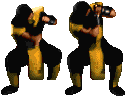
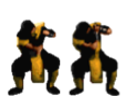
Added blocking down and being hit down for both characters

diff --git a/view/GameView.cpp b/view/GameView.cpp
@@ -87,6 +87,7 @@ GameView::~GameView() {
     delete  raidenDizzy;
     delete  raidenFall;
     delete  raidenBeingHit;
+    delete  scorpionBeingHitDown;
     delete  raidenBlockDown;
     delete  raidenBlock;
     delete  raidenHead;
@@ -157,8 +158,9 @@ void GameView::LoadSprites(string name1, string name2) {
     scorpionDizzy = new CharacterSprite(this->renderer, scorpion->getFileMovement(MOVE_NAME_DIZZY), scorpion->getX(), scorpion->getY(), scorpion->getWidth(), scorpion->getHeight(), 7, oponentSide, false, false, NULL);
     scorpionFall = new CharacterSprite(this->renderer, scorpion->getFileMovement(MOVE_NAME_FALL), scorpion->getX(), scorpion->getY(), scorpion->getWidth(), scorpion->getHeight(), 7, oponentSide, false, false, NULL);
     scorpionBeingHit = new CharacterSprite(this->renderer, scorpion->getFileMovement(MOVE_NAME_BEINGHIT), scorpion->getX(), scorpion->getY(), scorpion->getWidth(), scorpion->getHeight(), 3, oponentSide, false, false, NULL);
-    scorpionBlockDown = new CharacterSprite(this->renderer, scorpion->getFileMovement(MOVE_NAME_BLOCKDOWN), scorpion->getX(), scorpion->getY(), scorpion->getWidth(), scorpion->getHeight(), 2, oponentSide, false, false, NULL);
-    scorpionBlock = new CharacterSprite(this->renderer, scorpion->getFileMovement(MOVE_NAME_BLOCK), scorpion->getX(), scorpion->getY(), scorpion->getWidth(), scorpion->getHeight(), 3, oponentSide, false, false, NULL);
+    scorpionBeingHitDown = new CharacterSprite(this->renderer, scorpion->getFileMovement(MOVE_NAME_BEINGHIT_DOWN), scorpion->getX(), scorpion->getY(), scorpion->getWidth(), scorpion->getHeight(), 3, oponentSide, false, false, NULL);
+    scorpionBlockDown = new CharacterSprite(this->renderer, scorpion->getFileMovement(MOVE_NAME_BLOCKDOWN), scorpion->getX(), scorpion->getY(), scorpion->getWidth(), scorpion->getHeight(), 2, oponentSide, true, false, NULL);
+    scorpionBlock = new CharacterSprite(this->renderer, scorpion->getFileMovement(MOVE_NAME_BLOCK), scorpion->getX(), scorpion->getY(), scorpion->getWidth(), scorpion->getHeight(), 3, oponentSide, true, false, NULL);
     scorpionHead = new CharacterSprite(this->renderer, scorpion->getFileMovement(MOVE_NAME_HEAD), scorpion->getX(), scorpion->getY(), scorpion->getWidth(), scorpion->getHeight(), 9, oponentSide, false, false, NULL);
 
     raidenWalk = new CharacterSprite(this->renderer, raiden->getFileMovement(MOVE_NAME_WALK) , raiden->getX(),raiden->getY(), raiden->getWidth(),raiden->getHeight(), 9, oponentSide, false, colorAltered, this->painter);
@@ -178,8 +180,9 @@ void GameView::LoadSprites(string name1, string name2) {
 	raidenDizzy = new CharacterSprite(this->renderer, raiden->getFileMovement(MOVE_NAME_DIZZY), raiden->getX(), raiden->getY(), raiden->getWidth(), raiden->getHeight(), 7, oponentSide, false, colorAltered, this->painter);
 	raidenFall = new CharacterSprite(this->renderer, raiden->getFileMovement(MOVE_NAME_FALL), raiden->getX(), raiden->getY(), raiden->getWidth(), raiden->getHeight(), 12, oponentSide, true, colorAltered, this->painter);
 	raidenBeingHit = new CharacterSprite(this->renderer, raiden->getFileMovement(MOVE_NAME_BEINGHIT), raiden->getX(), raiden->getY(), raiden->getWidth(), raiden->getHeight(), 4, oponentSide, false, colorAltered, this->painter);
-	raidenBlockDown = new CharacterSprite(this->renderer, raiden->getFileMovement(MOVE_NAME_BLOCKDOWN), raiden->getX(), raiden->getY(), raiden->getWidth(), raiden->getHeight(), 2, oponentSide, false, colorAltered, this->painter);
-	raidenBlock = new CharacterSprite(this->renderer, raiden->getFileMovement(MOVE_NAME_BLOCK), raiden->getX(), raiden->getY(), raiden->getWidth(), raiden->getHeight(), 3, oponentSide, false, colorAltered, this->painter);
+	raidenBeingHitDown = new CharacterSprite(this->renderer, raiden->getFileMovement(MOVE_NAME_BEINGHIT_DOWN), raiden->getX(), raiden->getY(), raiden->getWidth(), raiden->getHeight(), 3, oponentSide, false, colorAltered, this->painter);
+	raidenBlockDown = new CharacterSprite(this->renderer, raiden->getFileMovement(MOVE_NAME_BLOCKDOWN), raiden->getX(), raiden->getY(), raiden->getWidth(), raiden->getHeight(), 2, oponentSide, true, colorAltered, this->painter);
+	raidenBlock = new CharacterSprite(this->renderer, raiden->getFileMovement(MOVE_NAME_BLOCK), raiden->getX(), raiden->getY(), raiden->getWidth(), raiden->getHeight(), 3, oponentSide, true, colorAltered, this->painter);
 	raidenHead = new CharacterSprite(this->renderer, raiden->getFileMovement(MOVE_NAME_HEAD), raiden->getX(), raiden->getY(), raiden->getWidth(), raiden->getHeight(), 9, oponentSide, false, colorAltered, this->painter);
 
 }
@@ -199,6 +202,7 @@ void GameView::RestarAllScorpionSprites()
 	scorpionShootTwo->reset();
 	scorpionDizzy->reset();
 	scorpionBeingHit->reset();
+    scorpionBeingHitDown->reset();
 	scorpionBlockDown->reset();
 	scorpionBlock->reset();
 }
@@ -217,6 +221,7 @@ void GameView::RestarAllRaidenSprites()
 	raidenShoot->reset();
 	raidenDizzy->reset();
 	raidenBeingHit->reset();
+	raidenBeingHitDown->reset();
 	raidenBlockDown->reset();
 	raidenBlock->reset();
 }
@@ -285,6 +290,10 @@ void GameView::runCharacter() {
             sprite = scorpionBeingHit;
             cout << "BEINGHIT" << endl;
             sprite->Play(150, scorpion->getHitWidth());
+    } else if (scorpion->getHitReception() == "BEINGHITDOWN") {
+            sprite = scorpionBeingHitDown;
+            cout << "BEINGHITDOWN" << endl;
+            sprite->Play(150, scorpion->getHitWidth());
     }
     else if (scorpion->getHitReception() == "FALLING") {
             sprite = scorpionFall;
@@ -340,8 +349,11 @@ void GameView::runCharacter() {
     			shootChar1 = NULL;
     }
     else if (scorpion->getHit() == "DEFENSE") {
-    		sprite = scorpionBlock;
-    		sprite->Play(100, scorpion->getHitWidth());
+            sprite = scorpionBlock;
+            sprite->Play(100, scorpion->getHitWidth());
+    } else if (scorpion->getHit() == "DEFENSEDOWN") {
+            sprite = scorpionBlockDown;
+            sprite->Play(100, scorpion->getWidth());
     }
     else if (scorpion->getHit() == "DIZZY") {
     		sprite = scorpionDizzy;
@@ -388,6 +400,9 @@ void GameView::runCharacter() {
     }
     else if (raiden->getHitReception() == "BEINGHIT") {
             sprite2 = raidenBeingHit;
+            sprite2->Play(100, raiden->getHitWidth());
+    } else if (raiden->getHitReception() == "BEINGHITDOWN") {
+            sprite2 = raidenBeingHitDown;
             sprite2->Play(100, raiden->getHitWidth());
     }
     else if (raiden->getHitReception() == "FALLING") {
@@ -437,6 +452,9 @@ void GameView::runCharacter() {
     }
     else if (raiden->getHit() == "DEFENSE") {
     		sprite2 = raidenBlock;
+    		sprite2->Play(100, raiden->getHitWidth());
+    } else if (raiden->getHit() == "DEFENSEDOWN") {
+    		sprite2 = raidenBlockDown;
     		sprite2->Play(100, raiden->getHitWidth());
     }
     else if (raiden->getHit() == "DIZZY") {

diff --git a/model/cargaJson.cpp b/model/cargaJson.cpp
@@ -229,6 +229,7 @@ void cargaPersonaje(Json::Value personaje, std::list<MKCharacter*>* characters, 
     char* filenameDizzy = new char[200];
     char* filenameFall = new char[200];
     char* filenameBeingHit = new char[200];
+    char* filenameBeingHitDown = new char[200];
     char* filenameBlock = new char[200];
     char* filenameBlockDown = new char[200];
     char* filenameHead = new char[200];
@@ -272,6 +273,7 @@ void cargaPersonaje(Json::Value personaje, std::list<MKCharacter*>* characters, 
             filenameDizzy = strdup(DEFAULT_DIZZY);
             filenameFall = strdup(DEFAULT_FALL);
             filenameBeingHit = strdup(DEFAULT_BEINGHIT);
+            filenameBeingHitDown = strdup(DEFAULT_BEINGHIT_DOWN);
             filenameBlock = strdup(DEFAULT_BLOCK);
             filenameBlockDown = strdup(DEFAULT_BLOCKDOWN);
             filenameHead = strdup(DEFAULT_HEAD);
@@ -295,6 +297,7 @@ void cargaPersonaje(Json::Value personaje, std::list<MKCharacter*>* characters, 
             filenameDizzy  = strdup(sprites[MOVE_NAME_DIZZY].asString().c_str());
             filenameFall  = strdup(sprites[MOVE_NAME_FALL].asString().c_str());
             filenameBeingHit  = strdup(sprites[MOVE_NAME_BEINGHIT].asString().c_str());
+            filenameBeingHitDown  = strdup(sprites[MOVE_NAME_BEINGHIT_DOWN].asString().c_str());
             filenameBlock  = strdup(sprites[MOVE_NAME_BLOCK].asString().c_str());
             filenameBlockDown  = strdup(sprites[MOVE_NAME_BLOCKDOWN].asString().c_str());
             filenameHead  = strdup(sprites[MOVE_NAME_HEAD].asString().c_str());
@@ -321,6 +324,7 @@ void cargaPersonaje(Json::Value personaje, std::list<MKCharacter*>* characters, 
     validarExistenciaArchivo(DEFAULT_DIZZY, filenameDizzy);
     validarExistenciaArchivo(DEFAULT_FALL, filenameFall);
     validarExistenciaArchivo(DEFAULT_BEINGHIT, filenameBeingHit);
+    validarExistenciaArchivo(DEFAULT_BEINGHIT_DOWN, filenameBeingHitDown);
     validarExistenciaArchivo(DEFAULT_BLOCK, filenameBlock);
     validarExistenciaArchivo(DEFAULT_BLOCKDOWN, filenameBlockDown);
     validarExistenciaArchivo(DEFAULT_HEAD, filenameHead);
@@ -346,6 +350,7 @@ void cargaPersonaje(Json::Value personaje, std::list<MKCharacter*>* characters, 
     Util::getInstance()->addMovement(MOVE_NAME_DIZZY, filenameDizzy);
     Util::getInstance()->addMovement(MOVE_NAME_FALL, filenameFall);
     Util::getInstance()->addMovement(MOVE_NAME_BEINGHIT, filenameBeingHit);
+    Util::getInstance()->addMovement(MOVE_NAME_BEINGHIT_DOWN, filenameBeingHitDown);
     Util::getInstance()->addMovement(MOVE_NAME_BLOCK, filenameBlock);
     Util::getInstance()->addMovement(MOVE_NAME_BLOCKDOWN, filenameBlockDown);
     Util::getInstance()->addMovement(MOVE_NAME_HEAD, filenameHead);

diff --git a/controller/GameController.cpp b/controller/GameController.cpp
@@ -155,6 +155,13 @@ void GameController::update(MKCharacter* character, MKCharacter* character2) {
 							hitTimer = SDL_GetTicks();
 							break;
 				case SDLK_d:
+							if (previousKey == SDLK_DOWN) {
+								Mylog->Log("movimiento del personaje: Defensa.", ERROR_LEVEL_INFO);
+								character->setHit("DEFENSEDOWN");
+								previousKey = mainEvent->key.keysym.sym;
+								hitTimer = SDL_GetTicks();
+								break;
+							}
 							Mylog->Log("movimiento del personaje: Defensa.", ERROR_LEVEL_INFO);
 							character->setHit("DEFENSE");
 							previousKey = mainEvent->key.keysym.sym;
@@ -273,11 +280,18 @@ void GameController::update(MKCharacter* character, MKCharacter* character2) {
 							hitTimerChar2 = SDL_GetTicks();
 							break;
 				case SDLK_n:
-							Mylog->Log("movimiento del personaje: Defensa.", ERROR_LEVEL_INFO);
-							character2->setHit("DEFENSE");
-							previousKeyChar2 = mainEvent->key.keysym.sym;
-							hitTimerChar2 = SDL_GetTicks();
-							break;
+							if (previousKeyChar2 == SDLK_s) {
+								Mylog->Log("movimiento del personaje: Defensa.", ERROR_LEVEL_INFO);
+								character2->setHit("DEFENSEDOWN");
+								previousKeyChar2 = mainEvent->key.keysym.sym;
+								hitTimerChar2 = SDL_GetTicks();
+								break;
+							}
+					        Mylog->Log("movimiento del personaje: Defensa.", ERROR_LEVEL_INFO);
+					        character2->setHit("DEFENSE");
+					        previousKeyChar2 = mainEvent->key.keysym.sym;
+					        hitTimerChar2 = SDL_GetTicks();
+					        break;
 				case SDLK_i:
 							Mylog->Log("movimiento del personaje: Mareado.", ERROR_LEVEL_INFO);
 							character2->setHit("DIZZY");
@@ -307,9 +321,6 @@ void GameController::update(MKCharacter* character, MKCharacter* character2) {
 							previousKeyChar2 = mainEvent->key.keysym.sym;
 							hitTimerChar2 = SDL_GetTicks();
 							break;
-
-
-
 				default:
 					previousKey = mainEvent->key.keysym.sym;
 					break;

diff --git a/view/GameView.h b/view/GameView.h
@@ -54,6 +54,7 @@ private:
     CharacterSprite* scorpionDizzy;
     CharacterSprite* scorpionFall;
     CharacterSprite* scorpionBeingHit;
+    CharacterSprite* scorpionBeingHitDown;
     CharacterSprite* scorpionBlockDown;
     CharacterSprite* scorpionBlock;
     CharacterSprite* scorpionHead;
@@ -76,25 +77,26 @@ private:
 	CharacterSprite* raidenDizzy;
 	CharacterSprite* raidenFall;
 	CharacterSprite* raidenBeingHit;
-	CharacterSprite* raidenBlockDown;
-	CharacterSprite* raidenBlock;
-	CharacterSprite* raidenHead;
+    CharacterSprite* raidenBeingHitDown;
+    CharacterSprite* raidenBlockDown;
+    CharacterSprite* raidenBlock;
 
+	CharacterSprite* raidenHead;
     //list<LayerSprite*>* layerSprites = new list<LayerSprite*>();
     LayerSprite** layerSprites;
-    int layerCount;
 
+    int layerCount;
     SDL_Window* window;
     SDL_Renderer* renderer;
     float screenWidth;
     float screenHeight;
+
     string oponentSide;
-
     void runCharacter();
-	void RestarAllScorpionSprites();
-	void RestarAllRaidenSprites();
-	double shootWidthCalculate();
+    void RestarAllScorpionSprites();
+    void RestarAllRaidenSprites();
 
+	double shootWidthCalculate();
     Painter* painter;
 };
 

diff --git a/model/constantes.h b/model/constantes.h
@@ -44,6 +44,7 @@ const char* const DEFAULT_SHOOT_TWO			= "data/scorpionShootingTwo.png";
 const char* const DEFAULT_DIZZY				= "data/scorpionDizzy.png";
 const char* const DEFAULT_FALL				= "data/scorpionFalling.png";
 const char* const DEFAULT_BEINGHIT			= "data/scorpionBeingHit.png";
+const char* const DEFAULT_BEINGHIT_DOWN		= "data/scorpionBeingHitDown.png";
 const char* const DEFAULT_BLOCK				= "data/scorpionBlocking.png";
 const char* const DEFAULT_BLOCKDOWN			= "data/scorpionBlockingDown.png";
 const char* const DEFAULT_HEAD				= "data/scorpionHead.png";
@@ -67,6 +68,7 @@ const char* const MOVE_NAME_SHOOT_TWO		= "shootTwo";
 const char* const MOVE_NAME_DIZZY			= "dizzy";
 const char* const MOVE_NAME_FALL			= "fall";
 const char* const MOVE_NAME_BEINGHIT		= "beingHit";
+const char* const MOVE_NAME_BEINGHIT_DOWN	= "beingHitDown";
 const char* const MOVE_NAME_BLOCK			= "block";
 const char* const MOVE_NAME_BLOCKDOWN		= "blockDown";
 const char* const MOVE_NAME_HEAD			= "head";

diff --git a/model/MKCharacter.cpp b/model/MKCharacter.cpp
@@ -289,6 +289,9 @@ void MKCharacter::receiveBlow(int force) {
 	if (force >= 20) {
 		this->setHitReception("FALLING");
 		GameController::setVibrating(true);
+	}
+	else if (this->movement == "DUCK") {
+		this->setHitReception("BEINGHITDOWN");
 	} else {
 		this->setHitReception("BEINGHIT");
 	}
@@ -347,7 +350,7 @@ void MKCharacter::setHitReception(string reception) {
 
 	//PERDON POR HARDCODEAR ESTOS NUMEROS. ESTOY BUSCANDO UNA ALTERNATIVA. ATTE: GONZALO
 
-	if (reception == "BEINGHIT") {
+	if (reception == "BEINGHIT" || reception == "BEINGHITDOWN") {
 		this->hitReceptionDelay = 20;
 	}
 	else if (reception == "FALLING") {

diff --git a/view/character/CharacterSprite.h b/view/character/CharacterSprite.h
@@ -32,15 +32,16 @@ public:
 	void PlayFall(float);
 	void vibrate();
 	bool vibrationFinished();
+	void playBlock(float speed, float width);
+
 	void resetFinished();
 
 private:
-
 	SDL_Texture* texture;
+
 	SDL_Rect draw;
 
 	SDL_Rect crop;
-
 	int img_width;
 	int img_height;
 	int CurrentFrame;
@@ -49,6 +50,7 @@ private:
 	int framesX;
 	bool initiated;
 	bool finished;
+
 	float scalingConstant;
 
 	string oponentSide;
@@ -58,7 +60,6 @@ private:
 	bool repeatLastSprite;
 
 	float vibrateProgress;
-
 };
 
 #endif /* MKSPRITE_H_ */
